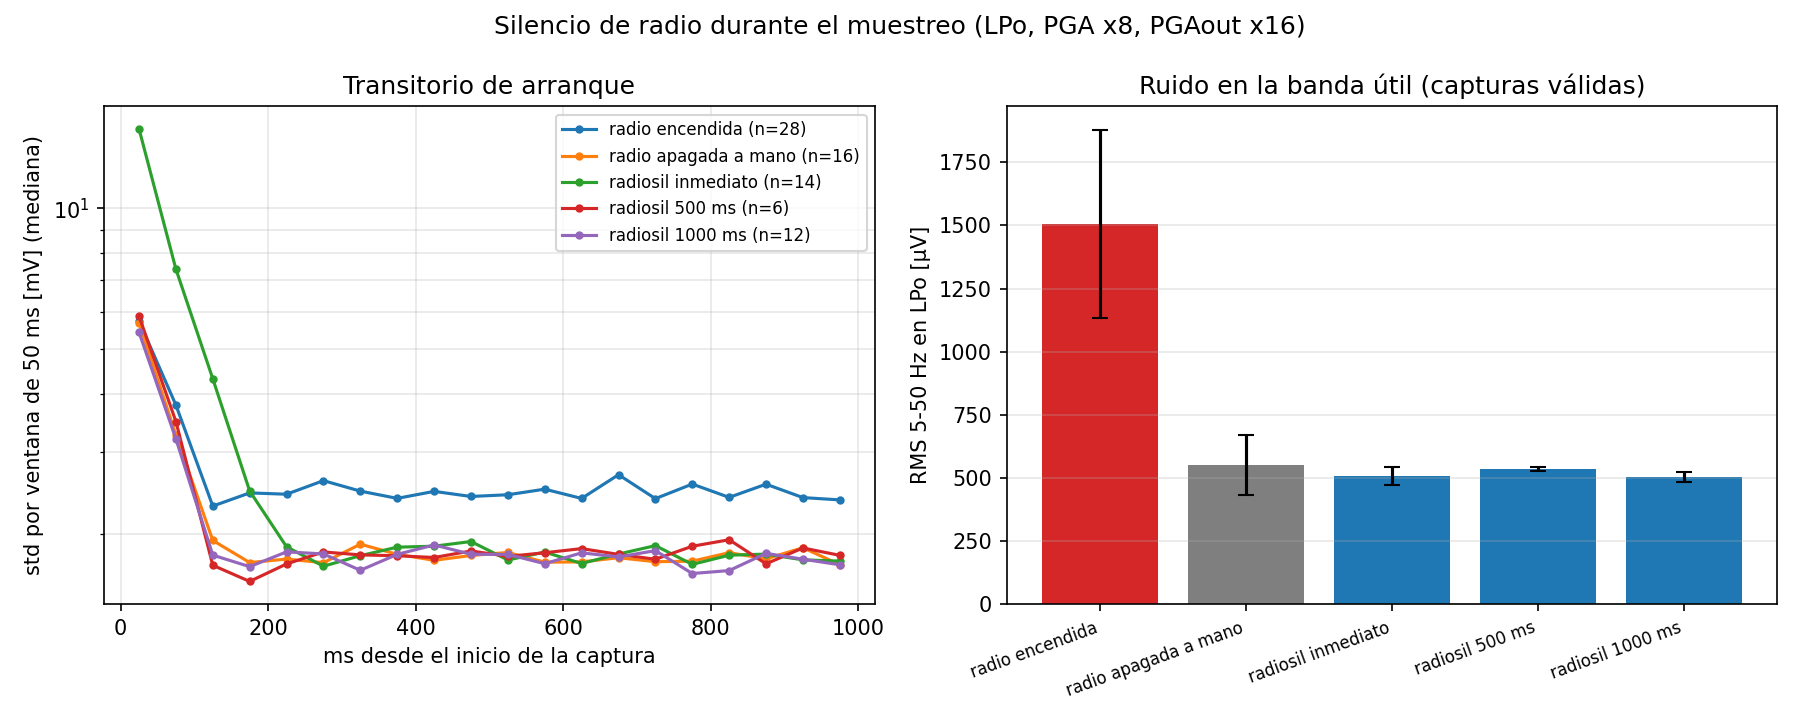
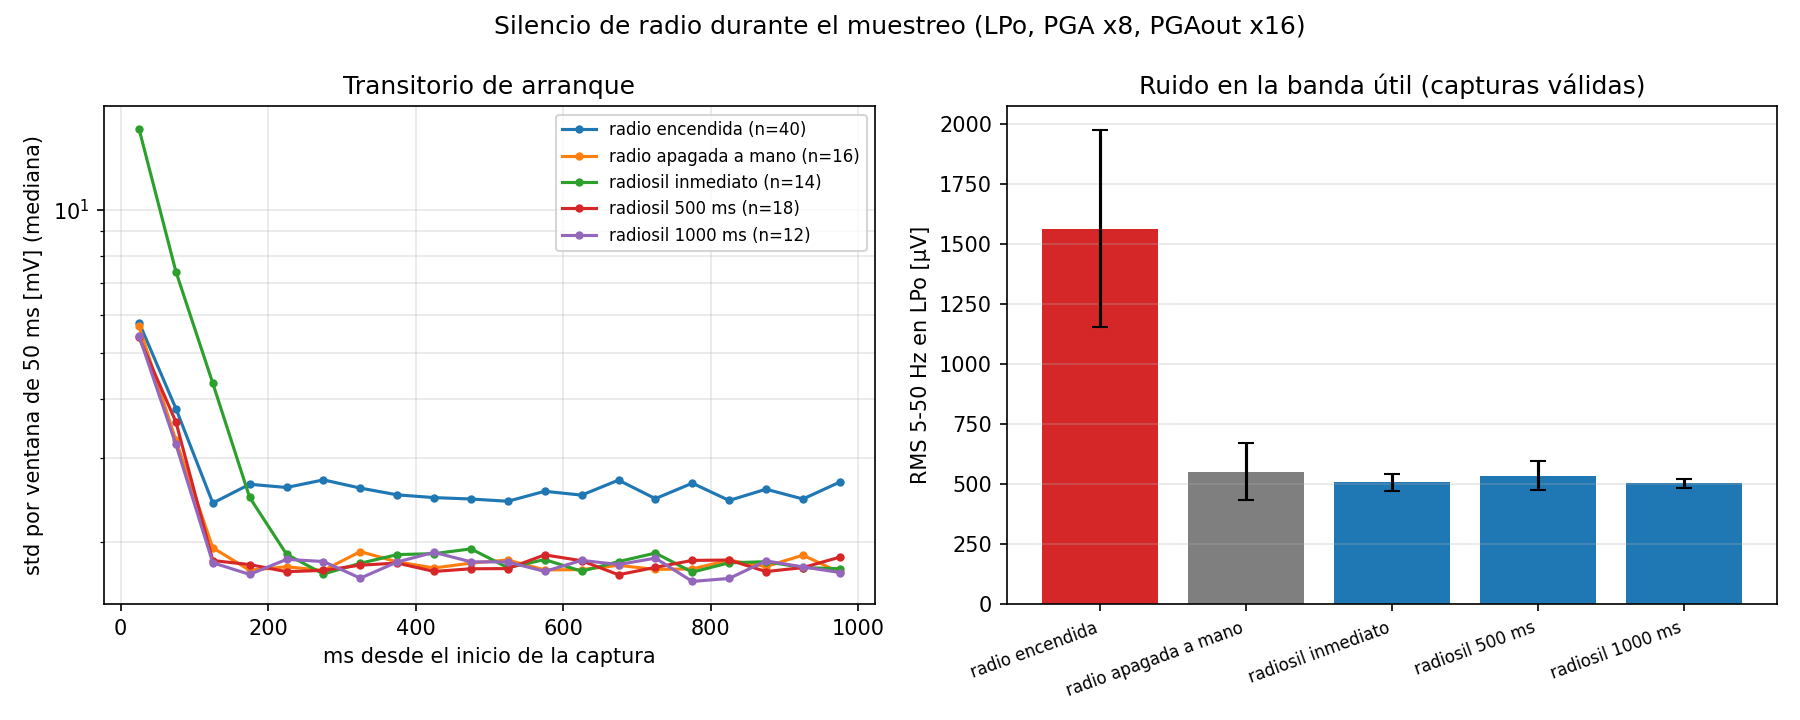
W12e (radiosil 500, 12+12: banda x0,31) y W13 (la baliza ya esta en SEo)
Claude-Session: https://claude.ai/code/session_015vxwffcT5SngEWGSrRrgxc

diff --git a/lab/RUIDO_RF_2026-10-20.md b/lab/RUIDO_RF_2026-10-20.md
@@ -150,6 +150,29 @@ nodos para no perder la sincronía; o que el esclavo demore el SYNC al PSoC
 `transitorio_arranque.py`: asentamiento (std por ventana < 1,2 × régimen)
 100 ms en BASE y OFF (arranque propio de la captura) y 150 ms con SIL.
 
+#### W12e: radiosil 500 contra radio encendida, precisión (12 + 12 capturas)
+
+| Condición | al riel | RMS total [µV] | RMS 5-50 Hz [µV] | 9,77 Hz [µV] | std 0-50 ms [mV] |
+|---|---|---|---|---|---|
+| BASE | 0 | 4685 ± 388 | 1703 ± 480 | 443 ± 120 | 6,0 |
+| SIL500 | 0 | 4466 ± 449 | **534 ± 78** | 37 ± 24 | 5,2 |
+
+Banda útil ×0,31, baliza ×0,08, arranque igual. Con W12d: 18 capturas
+SIL500, ninguna al riel. Figura de conjunto: `figuras/rf_silencio.png`
+(`figura_silencio_rf.py`).
+
+#### W13: la baliza ya está a la salida del PGA (SEo, PGA x16, 8 + 8)
+
+| Condición | RMS 5-50 Hz [µV] | 9,77 Hz [µV] |
+|---|---|---|
+| BASE | 43,9 ± 5,1 | 17,2 ± 5,2 |
+| OFF | 16,2 ± 1,0 | 2,0 ± 0,5 |
+| cociente | ×0,37 | ×0,12 |
+
+Mismo cociente que en LPo: la baliza entra antes o en el PGA, por el mismo
+camino que la transmisión. W13b/c (PGA x1 y x4) prueban si es constante
+referida a la entrada.
+
 #### `radiosil` en una captura comandada por el maestro (`prueba_radiosil_maestro.py`)
 
 Flujo de campo (ARM → STREAM 1 + START N=100 por el maestro, 3000

diff --git a/lab/ruido_rf_20261020/W12e_silencio_500/transitorio/transitorio.md b/lab/ruido_rf_20261020/W12e_silencio_500/transitorio/transitorio.md
@@ -1,0 +1,4 @@
+| condicion | n | rechazadas | std ventana 1 (mV) | std ventana 2 (mV) | std ventana 3 (mV) | std ventana 4 (mV) | std ventana 5 (mV) | std ventana 6 (mV) | std ventana 7 (mV) | std ventana 8 (mV) | std ventana 9 (mV) | std ventana 10 (mV) | std ventana 11 (mV) | std ventana 12 (mV) | std ventana 13 (mV) | std ventana 14 (mV) | std ventana 15 (mV) | std ventana 16 (mV) | std ventana 17 (mV) | std ventana 18 (mV) | std ventana 19 (mV) | std ventana 20 (mV) | regimen (mV) | asentamiento (ms) |
+|---|---|---|---|---|---|---|---|---|---|---|---|---|---|---|---|---|---|---|---|---|---|---|---|---|
+| BASE | 12 | 0 | 5.965 | 3.91625 | 2.66959 | 2.93042 | 2.67407 | 2.87963 | 3.13058 | 3.17405 | 2.81361 | 2.53682 | 2.44889 | 3.00362 | 2.62096 | 2.84774 | 2.88559 | 3.08569 | 2.70928 | 2.59799 | 2.58959 | 2.93329 | 4.46199 | 100 |
+| SIL500 | 12 | 0 | 5.222 | 3.57189 | 1.83701 | 1.84947 | 1.74276 | 1.66913 | 1.78388 | 1.80215 | 1.64895 | 1.73621 | 1.73303 | 1.87553 | 1.82264 | 1.70038 | 1.75433 | 1.77551 | 1.78804 | 1.76967 | 1.6614 | 1.85951 | 3.72172 | 100 |

diff --git a/lab/ruido_rf_20261020/W12e_silencio_500/espectro/espectro.md b/lab/ruido_rf_20261020/W12e_silencio_500/espectro/espectro.md
@@ -1,0 +1,8 @@
+# Espectro por condicion
+
+Referencia: BASE. Capturas descartadas por riel: 0. RMS en uV (sin media).
+
+| cond | n | RMS uV | RMS 5-50 Hz uV | RMS 9,77 Hz uV | vs BASE | baliza 9,77 Hz | baliza x2 | 57,6 ms (17,36 Hz) | 57,6 ms x2 | 57,6 ms x3 | red 50 Hz | lineas que mas crecen |
+|---|---|---|---|---|---|---|---|---|---|---|---|---|
+| BASE | 12 | 4685 +- 388 | 1702.9 +- 479.6 | 442.5 +- 119.7 | x1.00 | x1.00 | x1.00 | x1.00 | x1.00 | x1.00 | x1.00 | 1299.9 Hz x1.0, 1299.6 Hz x1.0, 1299.2 Hz x1.0, 1298.9 Hz x1.0, 1298.5 Hz x1.0, 1298.2 Hz x1.0 |
+| SIL500 | 12 | 4466 +- 449 | 534.3 +- 78.0 | 37.1 +- 23.9 | x0.95 | x0.04 | x0.03 | x0.06 | x0.04 | x0.16 | x0.74 | 688.5 Hz x4.1, 1182.9 Hz x3.8, 558.3 Hz x3.3, 474.3 Hz x3.1, 488.5 Hz x3.1, 1074.6 Hz x3.0 |

diff --git a/lab/ruido_rf_20261020/W13_reposo_seo/espectro/espectro.md b/lab/ruido_rf_20261020/W13_reposo_seo/espectro/espectro.md
@@ -1,0 +1,8 @@
+# Espectro por condicion
+
+Referencia: BASE. Capturas descartadas por riel: 0. RMS en uV (sin media).
+
+| cond | n | RMS uV | RMS 5-50 Hz uV | RMS 9,77 Hz uV | vs BASE | baliza 9,77 Hz | baliza x2 | 57,6 ms (17,36 Hz) | 57,6 ms x2 | 57,6 ms x3 | red 50 Hz | lineas que mas crecen |
+|---|---|---|---|---|---|---|---|---|---|---|---|---|
+| BASE | 8 | 195 +- 14 | 43.9 +- 5.1 | 17.2 +- 5.2 | x1.00 | x1.00 | x1.00 | x1.00 | x1.00 | x1.00 | x1.00 | 1299.9 Hz x1.0, 1299.6 Hz x1.0, 1299.2 Hz x1.0, 1298.9 Hz x1.0, 1298.5 Hz x1.0, 1298.2 Hz x1.0 |
+| OFF | 8 | 175 +- 14 | 16.2 +- 1.0 | 2.0 +- 0.5 | x0.90 | x0.05 | x0.06 | x0.09 | x0.07 | x0.15 | x1.60 | 1176.7 Hz x6.7, 1176.3 Hz x4.2, 588.9 Hz x4.0, 1053.8 Hz x3.8, 1083.3 Hz x3.6, 586.8 Hz x3.4 |

diff --git a/lab/ruido_rf_20261020/figuras/rf_silencio.md b/lab/ruido_rf_20261020/figuras/rf_silencio.md
@@ -1,11 +1,11 @@
 # Silencio de radio: transitorio y ruido en banda
 
-Directorios: W1c_reposo, W11_silencio, W12c_silencio_1000, W12d_silencio_500
+Directorios: W1c_reposo, W11_silencio, W12c_silencio_1000, W12d_silencio_500, W12e_silencio_500
 
 | condicion | capturas | al riel | std 0-50 ms [mV] | std 100-150 ms [mV] | RMS 5-50 Hz [uV] |
 |---|---|---|---|---|---|
-| radio encendida | 28 | 0 | 5.7 | 2.3 | 1505 ± 374 |
+| radio encendida | 40 | 0 | 5.8 | 2.4 | 1564 ± 411 |
 | radio apagada a mano | 16 | 0 | 5.7 | 1.9 | 552 ± 118 |
 | radiosil inmediato | 14 | 4 | 14.8 | 4.3 | 507 ± 36 |
-| radiosil 500 ms | 6 | 0 | 5.9 | 1.7 | 536 ± 9 |
+| radiosil 500 ms | 18 | 0 | 5.4 | 1.8 | 535 ± 61 |
 | radiosil 1000 ms | 12 | 0 | 5.4 | 1.8 | 503 ± 18 |
